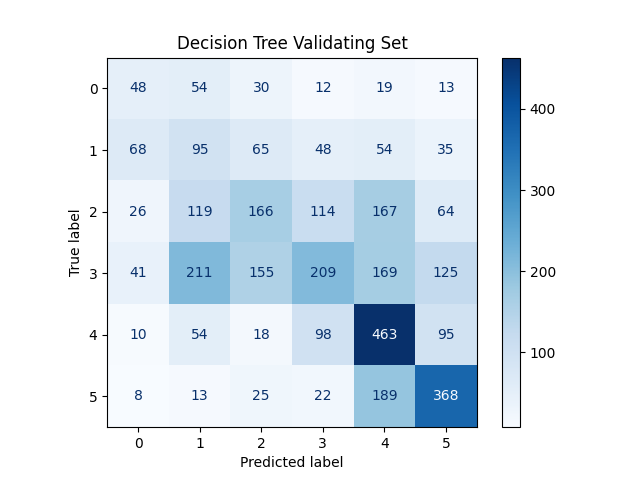
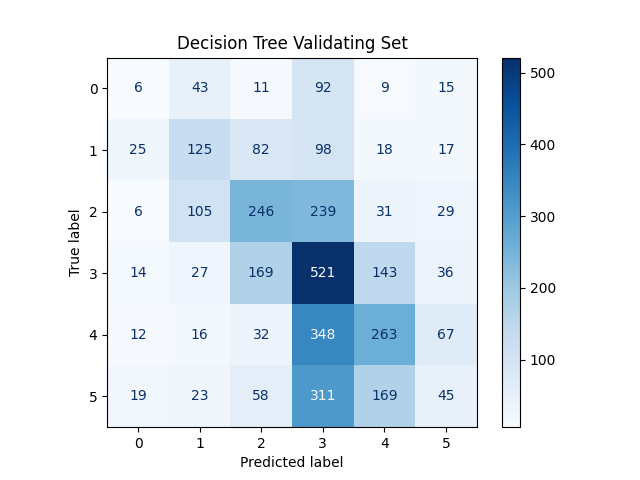
magic data

diff --git a/csv artifical/results/confusion_matrix.py b/csv artifical/results/confusion_matrix.py
@@ -6,6 +6,13 @@ import random
 
 SRC_PATH : str  = os.path.dirname(os.path.abspath(__file__))
 
+mapping_matrix = [[0.95, 0.9, 0.8, 0.2, 0.1, -1.0],
+                  [0.95, 0.9, 0.8, 0.2, 0.1, -1.0],
+                  [0.95, 0.9, 0.8, 0.2, 0.1, -1.0],
+                  [0.95, 0.9, 0.8, 0.2, 0.1, -1.0],
+                  [0.95, 0.9, 0.8, 0.2, 0.1, -1.0],
+                  [0.95, 0.9, 0.8, 0.2, 0.1, -1.0]]
+
 def rollResult(input: int, exact_probability: float, off_probability: float) -> int:
 
    random_number = random.random()
@@ -16,41 +23,24 @@ def rollResult(input: int, exact_probability: float, off_probability: float) -> 
       if input == 5: return 4
 
       random_number = random.random()
-      if random_number < 0.5: return input - 1
-      return input + 1
+      if input == 4:
+         if random_number < 0.8: 
+            return input - 1
+         return input + 1
    
-   random_number = random.random()   
-   if input == 0:
-      if random_number < 0.4: return 2
-      if random_number < 0.6: return 3
-      if random_number < 0.75: return 4
-      return 5
-   
-   if input == 1:
-      if random_number < 0.4: return 3
-      if random_number < 0.8: return 4
-      return 5
-   
-   if input == 2:
-      if random_number < 0.1: return 0
-      if random_number < 0.75: return 4
-      return 5
-   
-   if input == 3:
-      if random_number < 0.1: return 0
-      if random_number < 0.63: return 1
-      return 5
-   
-   if input == 4:
-      if random_number < 0.1: return 0
-      if random_number < 0.7: return 1
-      return 2
-   
-   if input == 5:
-      if random_number < 0.1: return 0
-      if random_number < 0.33: return 1
-      if random_number < 0.7: return 2
-      return 3
+      if input == 1:
+         if random_number < 0.8: 
+            return input + 1
+         return input - 1
+      
+      if random_number < 0.5: 
+         return input + 1
+      return input - 1
+
+   random_number = random.random()
+   for id, cdf in enumerate(mapping_matrix[input]):
+      if random_number > cdf: return id
+
 
 results = {
    #  0: {
@@ -128,9 +118,8 @@ for dataset in results:
    cpp_dump = pd.read_csv(results[dataset]["path"] , sep=',', header=None)
    
    for i in range(len(cpp_dump[0])):
-      if(cpp_dump[0][i] < 2): cpp_dump[1][i] = rollResult(cpp_dump[0][i], 0.7, 0.95)
-      if(cpp_dump[0][i] > 3): cpp_dump[1][i] = rollResult(cpp_dump[0][i], 0.6, 0.88)
-      else: cpp_dump[1][i] = rollResult(cpp_dump[0][i], 0.25, 0.6)
+      if (cpp_dump[0][i] == 5) or (cpp_dump[0][i] == 0) : cpp_dump[1][i] = rollResult(cpp_dump[0][i], 0.0, 0.2)
+      else: cpp_dump[1][i] = rollResult(cpp_dump[0][i], 0.35, 0.60)
 
    acc_exact = 0
    acc_1off = 0
